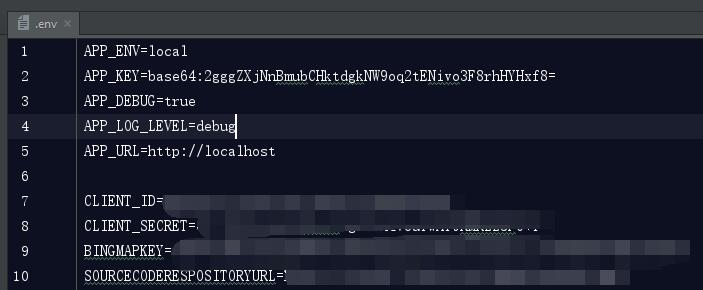
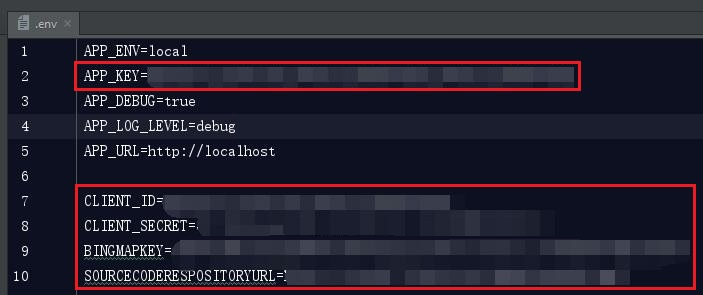
update README.md

diff --git a/README.md b/README.md
@@ -9,7 +9,7 @@ School data is kept in sync in O365 Education tenants by [Microsoft School Data 
 - [Sample Goals](#sample-goals)
 - [Prerequisites](#prerequisites)
 - [Register the application in Azure Active Directory](#register-the-application-in-azure-active-directory)
-- [Debug locally](#debug-locally)
+- [Run the sample locally](#run-the-sample-locally)
 - [Deploy the sample to Azure](#deploy-the-sample-to-azure)
 - [Understand the code](#understand-the-code)
 - [Questions and comments](#questions-and-comments)
@@ -53,7 +53,6 @@ The sample is implemented with the PHP language and the [Laravel](https://larave
   - [PHP 7.0](http://php.net/downloads.php)
   - [Composer](https://getcomposer.org/download/)
   - [Git](https://git-scm.com/download/win)
-  - PHP IDE like [PhpStorm](https://www.jetbrains.com/phpstorm/specials/phpstorm/phpstorm.html)
   - Familiarity with PHP and [Laravel](https://laravel.com/).
 
 **Optional configuration**:
@@ -128,50 +127,55 @@ Create a key to enable Bing Maps API features in the app:
 
    Close the Settings window.
 
-## Debug locally
+## Run the sample locally
 
 The following software and components are required:
 
-- PHP >= 7.0.0
-- OpenSSL PHP Extension
-- PDO PHP Extension
-- Mbstring PHP Extension
-- Tokenizer PHP Extension
-- XML PHP Extension
+- PHP >= 7.0.0 with the following extensions enabled
+
+  ```ini
+  extension=php_curl.dll
+  extension=php_mbstring.dll
+  extension=php_openssl.dll
+  extension=php_pdo_sqlite.dll
+  ```
+
 - [Git](https://git-scm.com/download/win)
 
-[PhpStorm](https://www.jetbrains.com/phpstorm/specials/phpstorm/phpstorm.html) is recommended to debug the sample locally.
+Follow the steps below to run this sample:
 
-1. Download the zip or clone source code from GitHub to local machine. 
+1. Download the source code to a local folder.
 
-2. Open directory of source code with PhpStorm.
-
-3. Run "Composer update" command with terminal. 
-
-
-Debug the **EDUGraphAPI**:
-
-1. Configure **environment variables**. Create a local .env file and input like below:
+2. Create the .env file in the local folder and configure the values:
 
    ![env](/Images/env.jpg)
 
-   - **clientId**: use the Client Id of the app registration you created earlier.
-   - **clientSecret**: use the Key value of the app registration you created earlier.
-   - **BingMapKey**: use the key of Bing Map you got earlier. This setting is optional.
-   - **SourceCodeRepositoryURL**: use the URL of this repository.
    - **APP_KEY:** use "php artisan key:generate" command to generate a new key.
+   - **CLIENT_ID**: use the Client Id of the app registration you created earlier.
+   - **CLIENT_SECRET**: use the Key value of the app registration you created earlier.
+   - **BINGMAPKEY**: use the key of Bing Map you got earlier. This setting is optional.
+   - **SOURCECODEREPOSITORYRL**: use the URL of this repository.
 
-2. Run the site.
+3. Open terminal or command and navigate to the local folder.
 
-   If you have PHP installed locally and you would like to use PHP's built-in development server to serve your application, you may use the serve Artisan command. This command will start a development server at [http://localhost:8000.](http://localhost:8000.)
+4.  Execute the command below to get the latest versions of the dependencies:
 
-   `php artisan serve`
+   ```
+   composer update
+   ```
 
-   If there's error like failed to open stream, use the cache clear command and dump auto load command.
+5. Start a development server at [http://localhost:8000.](http://localhost:8000.)
 
-   `php artisan cache:clear`
+   ```
+   php artisan serve
+   ```
 
-   `composer dump-autoload` 
+   >Note: If there's error like failed to open stream, use the cache clear command and dump auto load command.
+   >
+   >```
+   >php artisan cache:clear
+   >composer dump-autoload
+   >```
 
 ## Deploy the sample to Azure
 
